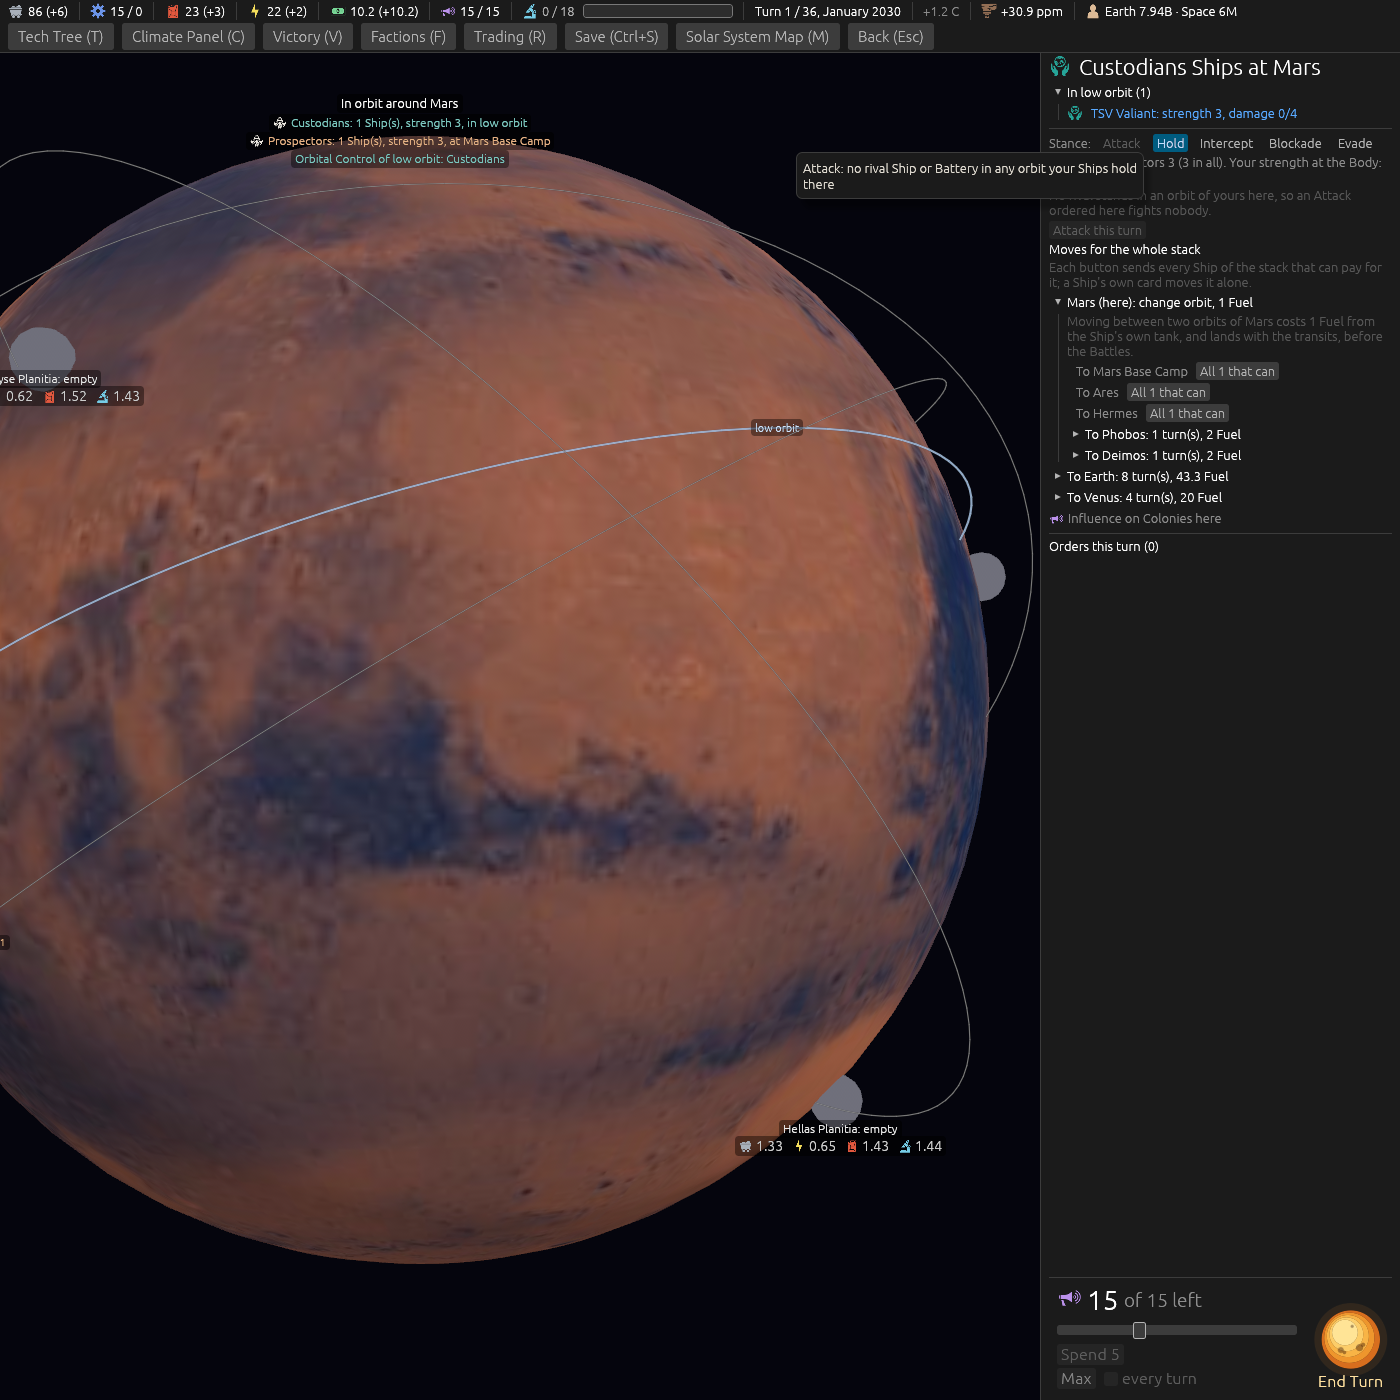
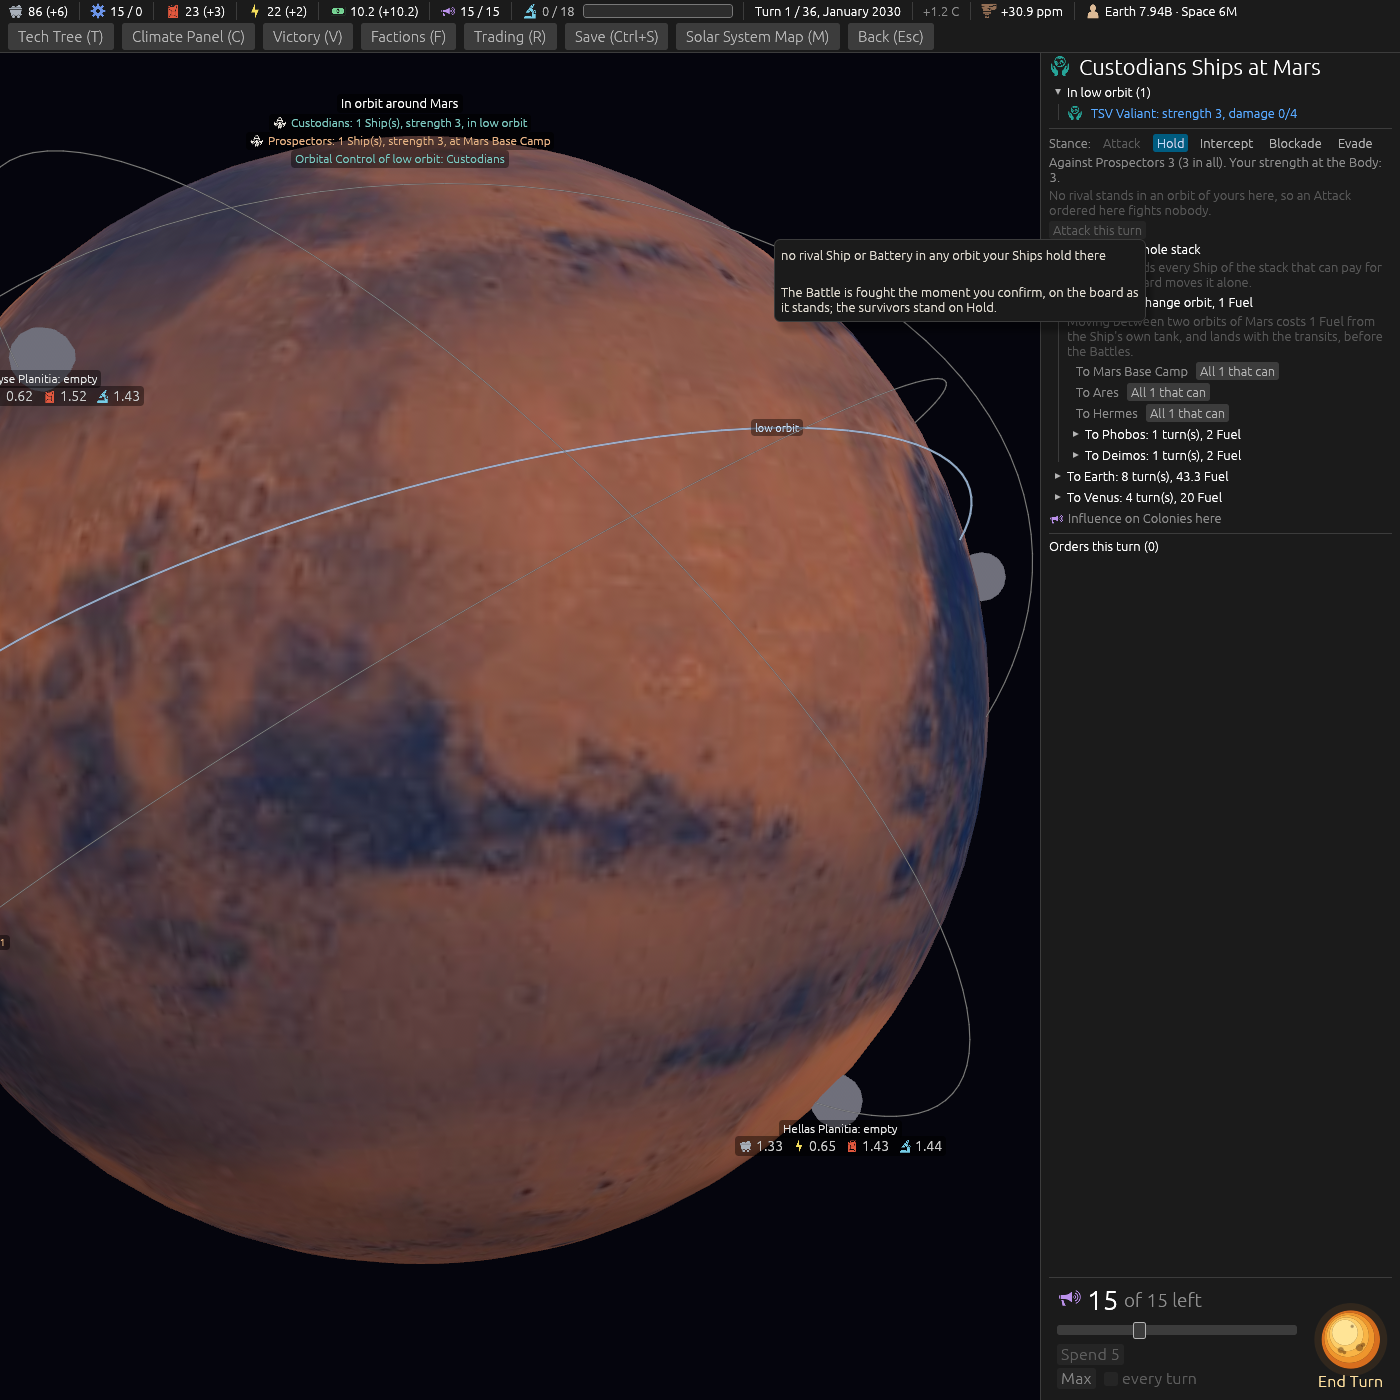
The review's fix-ups for the Attack on a Ship's card, and the click outside it
A click on nothing on the Solar System Map clears the selection, so a Ship's card gives way to the
roster, at the designer's word; the Attack block's doc comment off the stack card's; the three
kinds one named predicate, UnitKind::is_armed, and the glossary's Ship card and Stack entries
brought up to date; the two refused-button pictures re-taken with the button's own hover; the
witness's unused binding dropped; the spec's derived sentence marked.

Changed region(s): [[0.5529, 0.1536, 0.8293, 0.2457], [0.5836, 0.0921, 0.8293, 0.1229]]

diff --git a/src/ui.rs b/src/ui.rs
@@ -3540,8 +3540,14 @@ fn pick(pos: Pos2, session: &Session, game: &Game, view: &mut ViewState, camera:
                     nearest = Some((t, body));
                 }
             }
-            if let Some((_, body)) = nearest {
-                view.enter_surface(body);
+            match nearest {
+                Some((_, body)) => view.enter_surface(body),
+                // Ticket #399 (version 0.09.3): a click on nothing clears the selection here as it
+                // does on a Surface Map, so a Ship's card gives way to the roster -- the designer:
+                // *"clicking outside of the ship card [should] revert to the ship roster the same
+                // way when viewing a nation and clicking outside of the card will revert to the
+                // earth card."* Until this the Solar System Map kept whatever card was open.
+                None => view.selection = Selection::None,
             }
         }
         View::Surface(body) => {
@@ -7656,18 +7662,8 @@ fn slot_panel(ui: &mut Ui, session: &Session, game: &Game, body: BodyId, slot: u
     }
 }
 
-/// Ticket #374 (version 0.09.2): **the stack card holds what is the whole stack's**, and nothing
-/// that is one hull's. Until this ticket it was one flat column with a button per Ship under every
-/// heading -- Transits, Change orbit, Tanks, Load and unload, Bombard, Launch -- so the same hull
-/// stood on the card five times, and the designer asked for each Ship to have a card of its own:
-/// *"clean up ships at body cards - ships should each have their own card. bodies and orbits about
-/// which should each be their own drop down both on their own cards and the one listing all the
-/// ships at a body."* What stays here: the heading, the Ships **grouped by orbit** in one drop-down
-/// per orbit (open by default, each row opening the Ship's card), the stance, Attack, the
-/// whole-stack moves under one drop-down per Body, and Influence on the Colonies here. Everything
-/// else went to `ship_panel`.
 /// Ticket #399 (version 0.09.3): **the stack's stance and its Attack, on the stack card and on
-/// every warship's own card** -- the designer: *"would appear there is no actual way to order a
+/// every armed Ship's own card** (`UnitKind::is_armed`) -- the designer: *"would appear there is no actual way to order a
 /// frigate or battle ship to attack now that each ship has its own card."* The order is the
 /// stack's, keyed by Body, and stays so; a Ship's card says so in its heading and offers it. The
 /// Attack button asks the engine's own question (`attack_has_a_target`, a rival in an orbit one of
@@ -7717,6 +7713,16 @@ fn attack_block(ui: &mut Ui, session: &Session, game: &Game, view: &mut ViewStat
     }
 }
 
+/// Ticket #374 (version 0.09.2): **the stack card holds what is the whole stack's**, and nothing
+/// that is one hull's. Until this ticket it was one flat column with a button per Ship under every
+/// heading -- Transits, Change orbit, Tanks, Load and unload, Bombard, Launch -- so the same hull
+/// stood on the card five times, and the designer asked for each Ship to have a card of its own:
+/// *"clean up ships at body cards - ships should each have their own card. bodies and orbits about
+/// which should each be their own drop down both on their own cards and the one listing all the
+/// ships at a body."* What stays here: the heading, the Ships **grouped by orbit** in one drop-down
+/// per orbit (open by default, each row opening the Ship's card), the stance, Attack, the
+/// whole-stack moves under one drop-down per Body, and Influence on the Colonies here. Everything
+/// else went to `ship_panel`.
 fn stack_panel(ui: &mut Ui, session: &Session, game: &Game, view: &mut ViewState, body: BodyId, seat: Seat, actions: &mut Vec<Action>) {
     let ships: Vec<&Ship> = game.ships.iter().filter(|s| s.seat == seat && s.at == ShipAt::Body(body)).collect();
     ui.horizontal(|ui| {
@@ -8000,8 +8006,8 @@ fn ship_panel(ui: &mut Ui, session: &Session, game: &Game, view: &mut ViewState,
             // orbit -- the stance is the STACK'S, set on the stack card, and the line says so.
             // Ticket #399 (version 0.09.3): a warship's card sets the stance and gives the Attack
             // below, so the hover sends nobody to the stack card for those.
-            let fighter = !session.spectator && s.seat == Seat(0) && (s.kind.is_warship() || s.kind == UnitKind::MissileCarrier);
-            let where_set = if fighter { "set below, for the whole stack" } else { "set on the stack card or on a warship's card" };
+            let fighter = !session.spectator && s.seat == Seat(0) && s.kind.is_armed();
+            let where_set = if fighter { "set below, for the whole stack" } else { "set on the stack card or on an armed Ship's card" };
             ui.label(format!("{}, on {}", capitalised(&orbit_phrase(game, b, game.ship_orbit(s))), s.stance.name()))
                 .on_hover_text(format!("{} {} The stance is the whole stack's, {where_set}.", s.stance.one_liner(true), Stance::PERSISTS));
             if fighter {

diff --git a/engine/tests/formulas.rs b/engine/tests/formulas.rs
@@ -16848,7 +16848,7 @@ fn a_computer_seat_wants_a_rivals_fat_colony_more_than_its_lean_one() {
 #[test]
 fn an_attack_has_a_target_only_in_an_orbit_the_seat_shares_with_a_rival() {
     let mut g = game();
-    let mine = ship_in(&mut g, Seat(0), UnitKind::Frigate, BodyId::Mars, None, Stance::Hold);
+    ship_in(&mut g, Seat(0), UnitKind::Frigate, BodyId::Mars, None, Stance::Hold);
     let rival = ship_in(&mut g, Seat(1), UnitKind::Frigate, BodyId::Mars, Some(0), Stance::Hold);
     let attack = Order::ShipStance { body: BodyId::Mars, stance: Stance::Attack };
     assert!(!g.attack_has_a_target(Seat(0), BodyId::Mars), "a rival in the ring, mine in low orbit: nothing to fight");
@@ -16856,5 +16856,4 @@ fn an_attack_has_a_target_only_in_an_orbit_the_seat_shares_with_a_rival() {
     g.ship_mut(rival).unwrap().slot = None;
     assert!(g.attack_has_a_target(Seat(0), BodyId::Mars), "the same orbit: a target");
     assert!(g.check_order(Seat(0), &[], &attack).is_ok(), "and the order stands");
-    let _ = mine;
 }

diff --git a/engine/src/ids.rs b/engine/src/ids.rs
@@ -513,6 +513,14 @@ impl UnitKind {
     pub fn is_warship(self) -> bool {
         matches!(self, UnitKind::Frigate | UnitKind::Battleship)
     }
+
+    /// Ticket #399 (version 0.09.3): **an armed Ship**, whose own card carries the stack's stance
+    /// and its Attack: a warship, or a Missile Carrier, which is no warship (#343) but fights by
+    /// its Launch and is given its stance as one. A Colony Ship's or a Carrier's card carries
+    /// neither (the designer, Q2 B).
+    pub fn is_armed(self) -> bool {
+        self.is_warship() || self == UnitKind::MissileCarrier
+    }
 }
 
 #[derive(Debug, Clone, Copy, PartialEq, Eq, Hash, PartialOrd, Ord, Serialize, Deserialize)]

diff --git a/CONTEXT.md b/CONTEXT.md
@@ -319,7 +319,7 @@ The Region a Faction starts in and holds from turn one: the player's own pick, a
 _Avoid_: start state, capital, homeland, starting position
 
 **Ship card**:
-The selection card of one Ship, since version 0.09.2, opened from its row on the stack's card, from its row in the Roster, or from its label on the Solar System Map while it flies. It holds everything that is one Ship's -- its strength, damage and cargo, its Tank, its Transit and change-of-orbit moves, its loading and unloading, its Bombard, Launch and Rearm, and its repair -- and stands in place of the stack's card with a link back to it. Its moves are one drop-down per Body, nested as the sky is, the Moon under Earth and Phobos and Deimos under Mars, each holding a line per orbit. A Ship in flight has one too, for its line, where it is bound and its Tank, with no moves. The stack's card keeps only what is the whole stack's: its Ships grouped by orbit, the stance, Attack and the moves that send every Ship that can pay. Before this every one of these stood on the stack's card once per Ship. The stack's card also keeps Influence on the Colonies at the Body. Only the planet group holding the Ship's Body, and that Body's own drop-down, open by default, and open or shut is remembered for the session only; the orbit lines inside a drop-down do not repeat the Body's name. A Ship in flight's card shows the turns left and the date it lands, and links back to the Roster.
+The selection card of one Ship, since version 0.09.2, opened from its row on the stack's card, from its row in the Roster, or from its label on the Solar System Map while it flies. It holds everything that is one Ship's -- its strength, damage and cargo, its Tank, its Transit and change-of-orbit moves, its loading and unloading, its Bombard, Launch and Rearm, and its repair -- and stands in place of the stack's card with a link back to it; since version 0.09.3 an armed Ship's card (a Frigate's, a Battleship's or a Missile Carrier's) carries the stack's stance and Attack as well, headed as the stack's, and a click on nothing on the Solar System Map gives way to the Roster as it does on a Surface Map. Its moves are one drop-down per Body, nested as the sky is, the Moon under Earth and Phobos and Deimos under Mars, each holding a line per orbit. A Ship in flight has one too, for its line, where it is bound and its Tank, with no moves. The stack's card keeps only what is the whole stack's: its Ships grouped by orbit, the stance, Attack and the moves that send every Ship that can pay. Before this every one of these stood on the stack's card once per Ship. The stack's card also keeps Influence on the Colonies at the Body. Only the planet group holding the Ship's Body, and that Body's own drop-down, open by default, and open or shut is remembered for the session only; the orbit lines inside a drop-down do not repeat the Body's name. A Ship in flight's card shows the turns left and the date it lands, and links back to the Roster.
 _Avoid_: ship panel, unit card, vessel sheet
 
 **Colony Ship**:
@@ -361,7 +361,7 @@ Since version 0.09.0 **a raised Army is raised from people** (the designer: *"ar
 _Avoid_: troops, soldiers, garrison, marines
 
 **Stack**:
-Every unit of one Faction at one place: its Armies in a Region or at a Colony, its Ships at a Body. Since version 0.08.8 a stack is a thing orders are given to as well as a thing the map draws: one row of buttons marches every Army of the stack that may march, since version 0.09.2 its card keeps only what is the whole stack's -- the Ships grouped by orbit, the stance, Attack and the *All that can* moves, even for a stack of one, which take every candidate and place those the engine accepts -- and every per-Ship button is on the Ship card, and a right-click on the map after a click on the stack's shield places the whole stack's march. The orders are still the units' own, placed together, so the arrival and the Battle are each unit's; nothing is a stack in the rules. The computer marches a stack where one Army alone would not clear its bar.
+Every unit of one Faction at one place: its Armies in a Region or at a Colony, its Ships at a Body. Since version 0.08.8 a stack is a thing orders are given to as well as a thing the map draws: one row of buttons marches every Army of the stack that may march, since version 0.09.2 its card keeps only what is the whole stack's -- the Ships grouped by orbit, the stance, Attack (since version 0.09.3 offered on an armed Ship's own card too) and the *All that can* moves, even for a stack of one, which take every candidate and place those the engine accepts -- and every per-Ship button is on the Ship card, and a right-click on the map after a click on the stack's shield places the whole stack's march. The orders are still the units' own, placed together, so the arrival and the Battle are each unit's; nothing is a stack in the rules. The computer marches a stack where one Army alone would not clear its bar.
 _Avoid_: fleet, army group, formation, squadron
 
 **Escort**:

diff --git a/docs/dev-diary/2026-09-26-version-0.09.3/ticket-399-attack-from-ship-card/README.md b/docs/dev-diary/2026-09-26-version-0.09.3/ticket-399-attack-from-ship-card/README.md
@@ -10,11 +10,17 @@ records it.
 ## What was built
 
 The stack card's stance row and Attack block are one function, `attack_block`, drawn on the stack
-card as before and on a Frigate's, Battleship's or Missile Carrier's own card under its orbit line,
-headed as the stack's. The Attack button asks the engine's `attack_has_a_target`, made public, so
+card as before and on an armed Ship's own card (a Frigate's, a Battleship's or a Missile Carrier's,
+`UnitKind::is_armed`) under its orbit line, headed as the stack's. The Attack button asks the engine's `attack_has_a_target`, made public, so
 it is greyed with the refusal on its hover where the stack card's Body-wide test showed it live and
 left the confirm to be refused. A picture aid, `foe:low` and `foe:ring`, puts a Frigate of the
 player's in Mars's low orbit and a rival's in the same orbit or in a station's ring.
+
+**A click outside the card**, at the designer's word before the ticket closed: on a Surface Map a
+click that misses the globe has always cleared the selection, so a Region's card gives way to the
+Earth Map and the roster; on the Solar System Map a click on nothing did nothing, and a Ship's card
+opened from the roster stayed open. It clears the selection there now too, so the Ship's card gives
+way to the roster. A click, so no headless picture: the change is one arm of the map's pick.
 
 ## Before
 
@@ -40,8 +46,9 @@ odds, and *Attack with all 1 Ship(s) at Mars*, live.
 ![The Frigate's card after: the stack's stance and a live Attack](after-ship-card-live.png)
 
 **The same card with the rival in the station's ring**, `foe:ring`, the button's hover forced
-(`tip:no rival Ship`): the button greyed, its hover *Attack: no rival Ship or Battery in any orbit
-your Ships hold there*, the engine's own refusal.
+(`tip:no rival Ship#2`, the second match, since the stance row's own *Attack* label carries the same
+refusal and draws first): the button greyed, its hover the engine's own refusal, *no rival Ship or
+Battery in any orbit your Ships hold there*, and under it what an Attack is.
 
 ![The Frigate's card after: the Attack greyed with the reason](after-ship-card-refused.png)
 
@@ -49,6 +56,19 @@ your Ships hold there*, the engine's own refusal.
 is greyed with the same reason.
 
 ![The stack card after: the Attack greyed with the reason](after-stack-card-refused.png)
+
+## The review
+
+The standards review found the Attack block's doc comment appended to the stack card's, so both
+hung on the wrong function: put right. It found the glossary's *Ship card* and *Stack* entries
+still saying the stance and Attack are the stack card's alone, and the word *warship* used for a
+card the Missile Carrier gets though it is no warship: the entries say what is so, and the three
+kinds are one named predicate, `UnitKind::is_armed`, *an armed Ship*. And it found the two
+refused-button pictures showing the stance row's own *Attack* label's hover, which carries the same
+refusal and draws first, not the button's: re-taken with the picture aid's second match, so the
+button's hover is what is shown. The spec review found nothing missing and one sentence in §15
+past the resolution's words, the preview shown only when the order stands, now marked as a
+consequence of the greyed button rather than a decision.
 
 ## The red witness
 

diff --git a/docs/spec/version-0.09.3.md b/docs/spec/version-0.09.3.md
@@ -479,7 +479,7 @@ moves. The designer: *"would appear there is no actual way to order a frigate or
 attack now that each ship has its own card."*
 
 **Where Attack lives** (Q1, A). The Attack is the stack's stance, keyed by Body, and stays so. It is
-offered on the stack card as before, and now **on a warship's own card too**: a Frigate's, a
+offered on the stack card as before, and now **on an armed Ship's own card too**: a Frigate's, a
 Battleship's or a Missile Carrier's card of the player's, at a Body, carries the stack's stance row
 and the Attack block under its orbit line, headed *The stack's stance and Attack: all N Ship(s) of
 yours at the Moon*, the button reading *Attack with all N Ship(s) at the Moon*, and acting on the
@@ -493,4 +493,11 @@ Attack; its stance line's hover says where the stance is set.
 working Battery shares an orbit with one of the seat's Ships (`attack_has_a_target`), where the
 stack card asked a Body-wide one and could show a button whose confirm was then refused. Greyed,
 the button's hover carries the refusal, as every refusal has since 0.09.2; the preview and confirm
-appear only when the order would stand.
+appear only when the order would stand (a consequence of the greyed button, not a decision of the
+ticket's).
+
+**A click outside the card.** At the designer's word before the ticket closed (*"clicking outside
+of the ship card [should] revert to the ship roster the same way when viewing a nation and
+clicking outside of the card will revert to the earth card"*): on the Solar System Map a click on
+nothing clears the selection, as it always has on a Surface Map, so a Ship's card gives way to the
+roster. Until this the Solar System Map kept whatever card was open.
